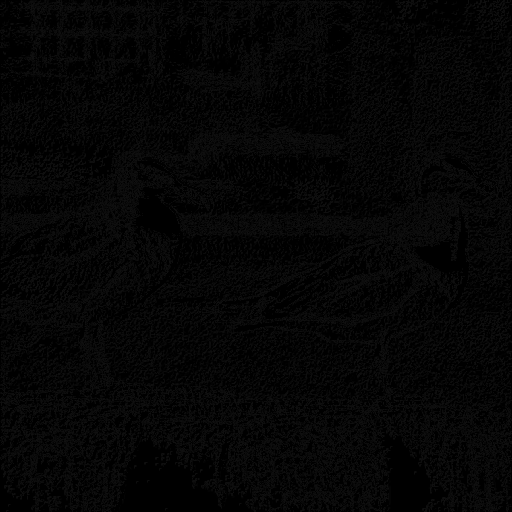
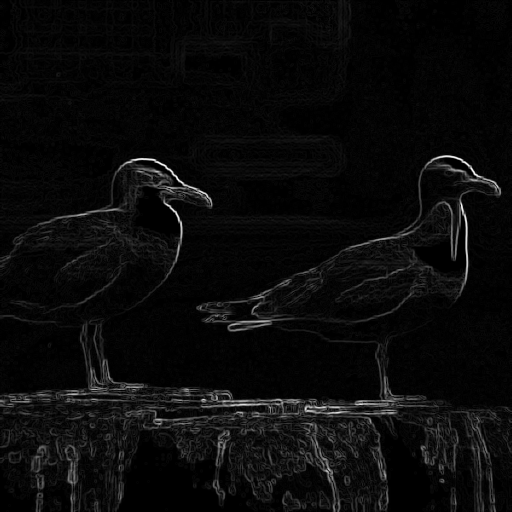
gaussian not working

diff --git a/t1/filters.py b/t1/filters.py
@@ -1,8 +1,14 @@
+from skimage import io
 import numpy as np
 import cv2
 import os
 
-def space_filter(filename, option):
+def normalize(image):
+    #image = image-image.min()
+    image = 255*image / image.max()
+    return image.astype(np.uint8)
+
+def spatial_filter(filename, option):
     # Available kernels
     h1 = np.array([[0, 0, -1, 0, 0], [0, -1, -2, -1, 0], [-1, -2, 16, -2, -1], [0, -1, -2, -1, 0], [0, 0, -1, 0, 0]])
     h2 = np.array([[1, 4, 6, 4, 1], [4, 16, 24, 16, 4], [6, 24, 36, 24, 6], [4, 16, 24, 16, 4], [1, 4, 6, 4, 1]])/256
@@ -13,7 +19,7 @@ def space_filter(filename, option):
     if option < 1 or option > 3:
         invalid_option()
 
-    image = cv2.imread(filename)
+    image = io.imread(filename)
 
     # Applying filters
     if option == 1:
@@ -27,17 +33,36 @@ def space_filter(filename, option):
         save_image(r1, filename, "h3.png")
         r2 = cv2.filter2D(image, -1, h4)
         save_image(r2, filename, "h4.png")
-        r3 = (r1**2 + r2**2)**(1/2)
+        r3 = normalize(np.abs(np.sqrt(np.square(cv2.filter2D(image/255., -1, h3)) + np.square(cv2.filter2D(image/255., -1, h4)))))
         save_image(r3, filename, "h3_h4.png")
 
-def frequency_filter(filename):
-    image = cv2.imread(filename)
+def frequency_filter(filename, sigma):
+    image = io.imread(filename)
+
+    # Gaussian filter
+    g_kernel = cv2.getGaussianKernel(image.shape[0],sigma)
+    gf = g_kernel*g_kernel.T
+    gf = np.fft.fft2(gf)
+    gf = np.fft.fftshift(gf)
+
+    # Image
+    f = np.fft.fft2(image)
+    f = np.fft.fftshift(f)
+    ff = f*gf
+    result = np.fft.ifftshift(ff)
+    result = np.fft.ifft2(result)
+    result = normalize(np.abs(result))#.astype(np.uint8)
+    sigma_str = ""
+    print (str(sigma).split("."))
+    for s in str(sigma).split("."):
+        sigma_str.join(s).join("-")
+    save_image(result, filename, sigma_str+".png")
 
 def save_image(image, filename, sufix):
     if not os.path.exists("results"):
         os.mkdir("results")
     saving_filename = "results/" + filename.split("/")[-1][:-4] + "_"
-    cv2.imwrite(saving_filename + sufix, image)
+    io.imsave(saving_filename + sufix, image, check_contrast=False)
 
 def invalid_option():
     print("Not a valid option.")

diff --git a/t1/main.py b/t1/main.py
@@ -3,7 +3,7 @@ from filters import *
 filename = input("Enter the image filename: \n")
 
 option = int(input("Enter the number of an option [1-2]: \n\
-1 - Space filter\n\
+1 - Spatial filter\n\
 2 - Frequency filter\n"))
 
 if option == 1:
@@ -11,8 +11,10 @@ if option == 1:
 1 - h1\n\
 2 - h2\n\
 3 - h3 and h4\n"))
-    space_filter(filename, filter_option)
+    spatial_filter(filename, filter_option)
 elif option == 2:
-    frequency_filter(filename)
+    sigma = float(input("Enter the Gaussian standard deviation (if negative, it\
+     is going to be 1.1):\n"))
+    frequency_filter(filename, sigma)
 else:
     invalid_option()

diff --git a/t1/creating_all_images.py b/t1/creating_all_images.py
@@ -10,5 +10,5 @@ images_path = [baboon_image_path, butterfly_image_path, city_image_path, house_i
 
 for img in images_path:
     for i in range(3):
-        space_filter(img, i+1)
-    frequency_filter(img)
+        spatial_filter(img, i+1)
+    frequency_filter(img, 5.4)
